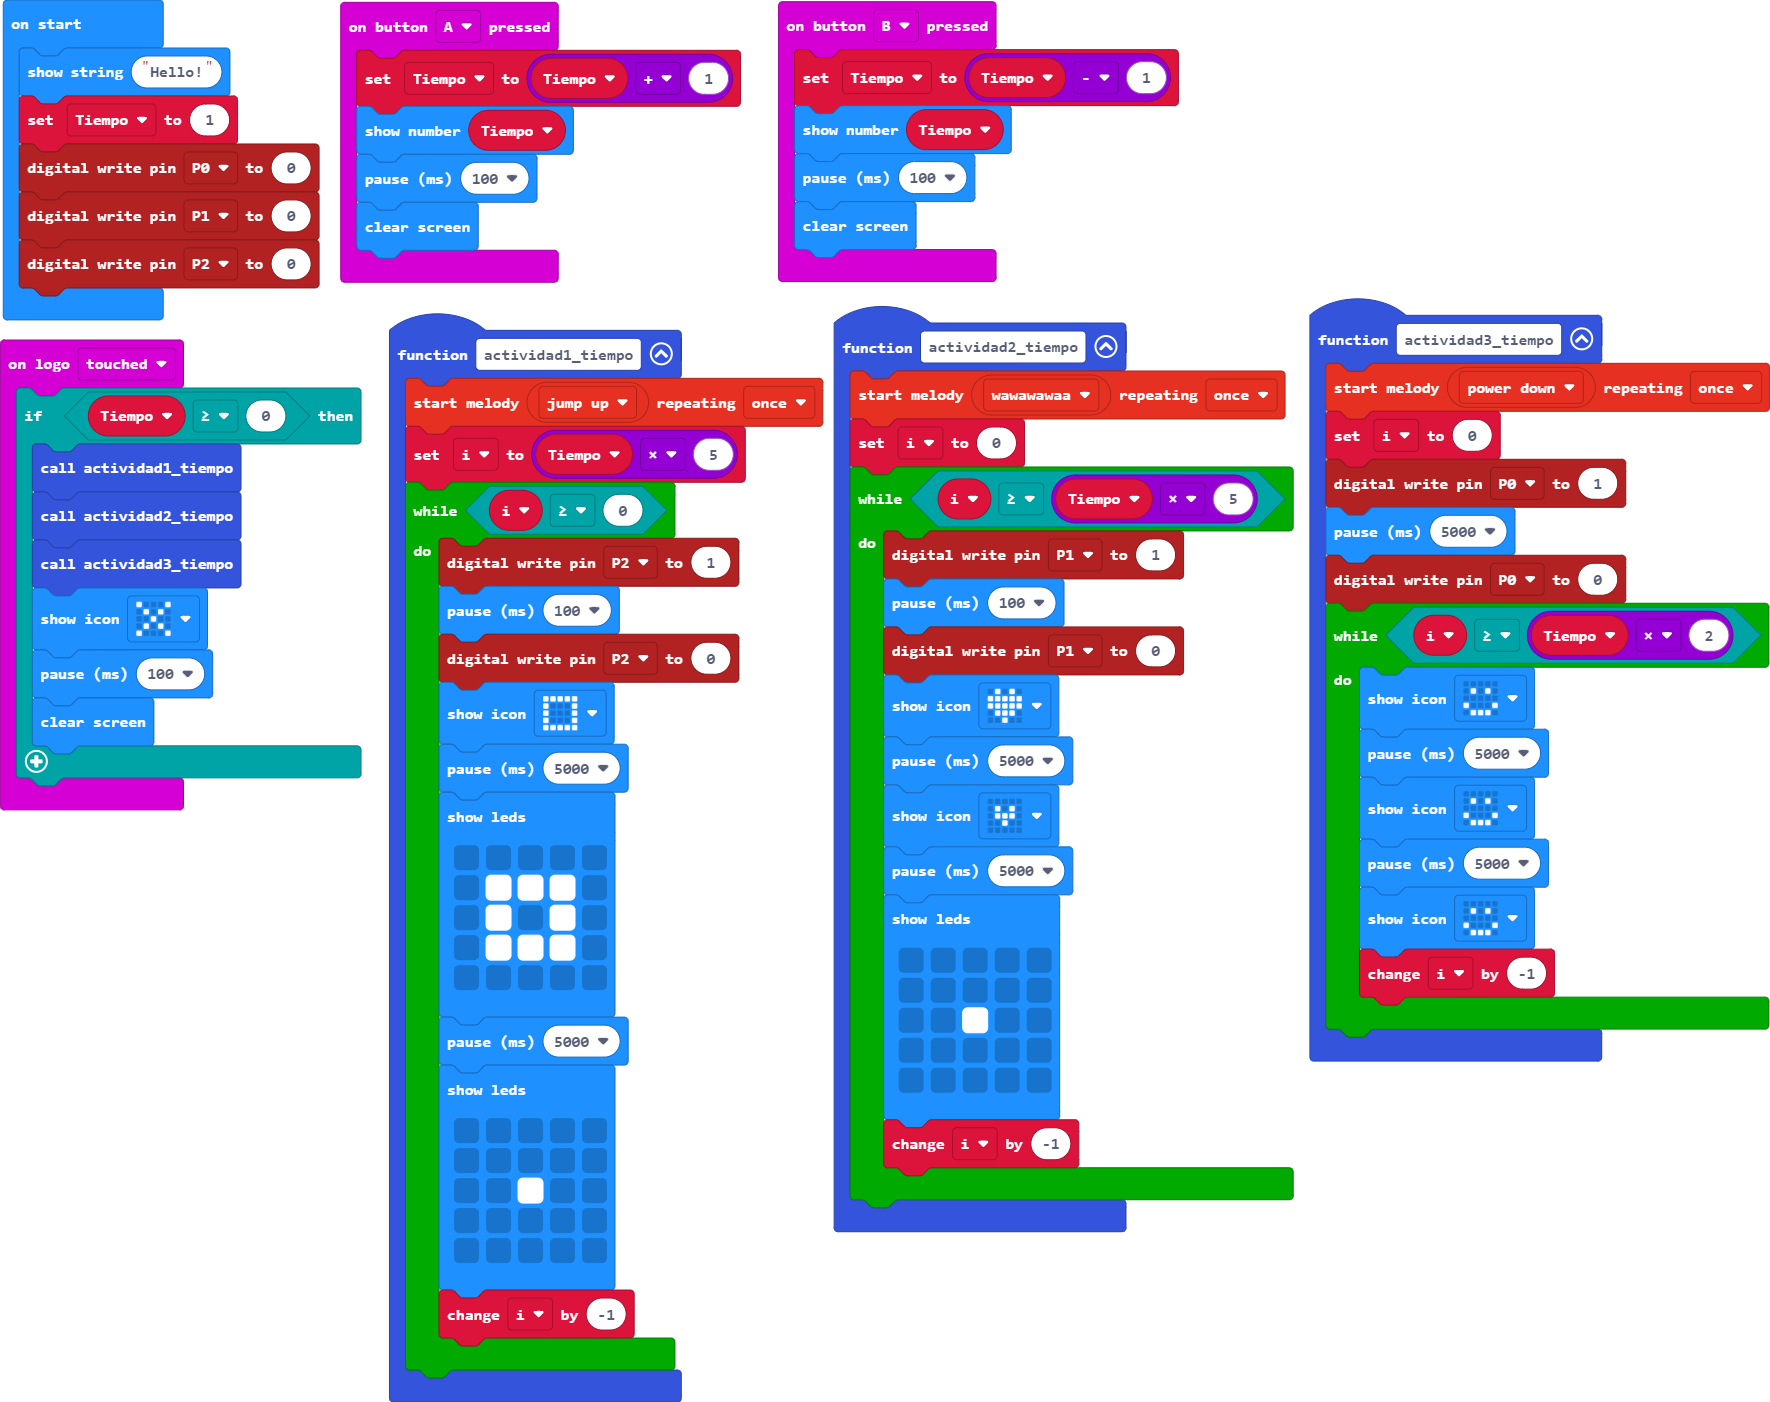
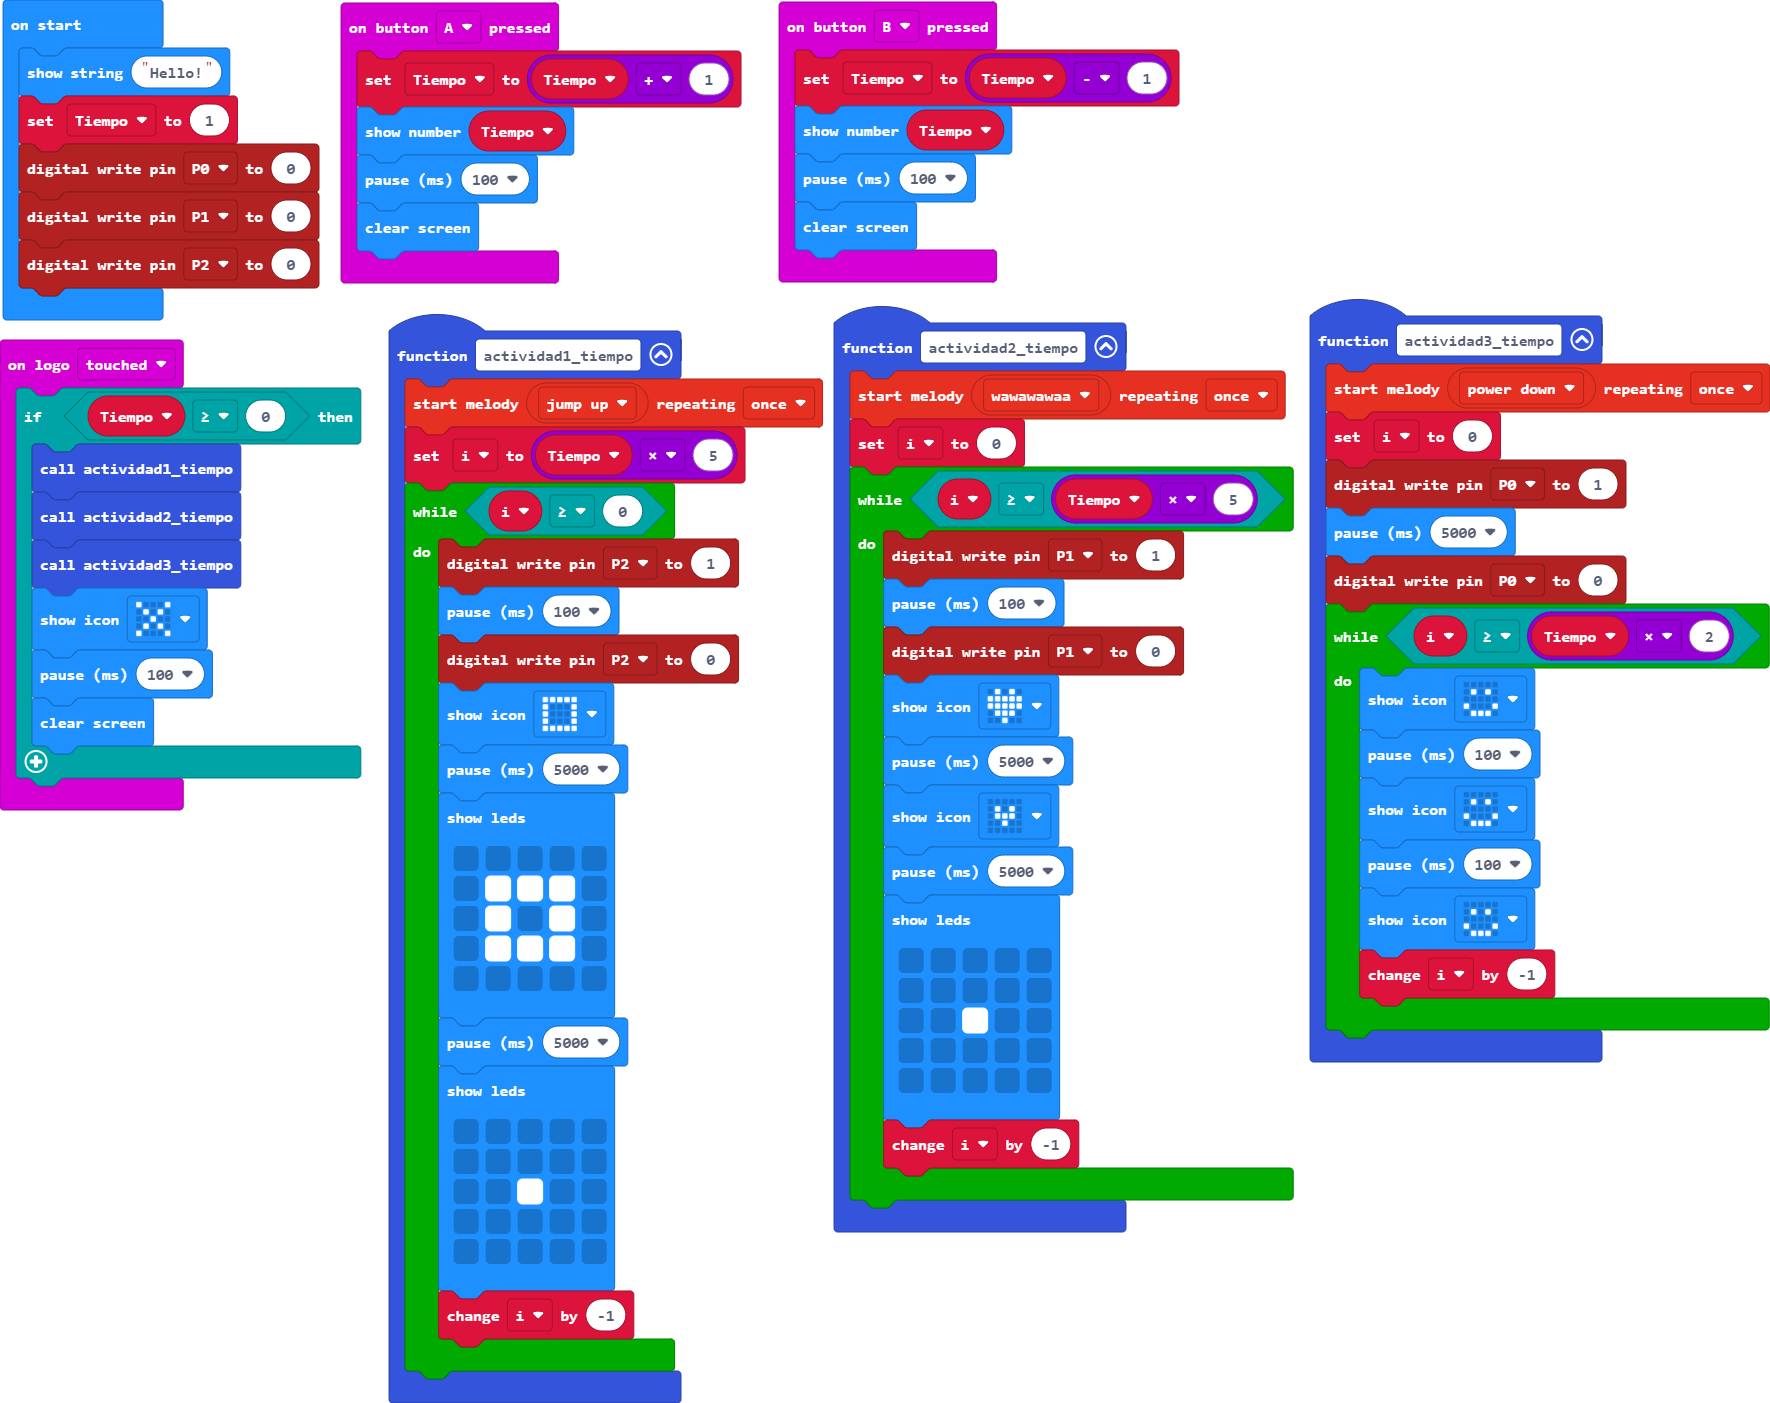
Update main.blocks, main.ts

diff --git a/main.ts b/main.ts
@@ -60,9 +60,9 @@ function actividad3_tiempo () {
     pins.digitalWritePin(DigitalPin.P0, 0)
     while (i >= Tiempo * 2) {
         basic.showIcon(IconNames.Happy)
-        basic.pause(5000)
+        basic.pause(100)
         basic.showIcon(IconNames.Happy)
-        basic.pause(5000)
+        basic.pause(100)
         basic.showIcon(IconNames.Happy)
         i += -1
     }
